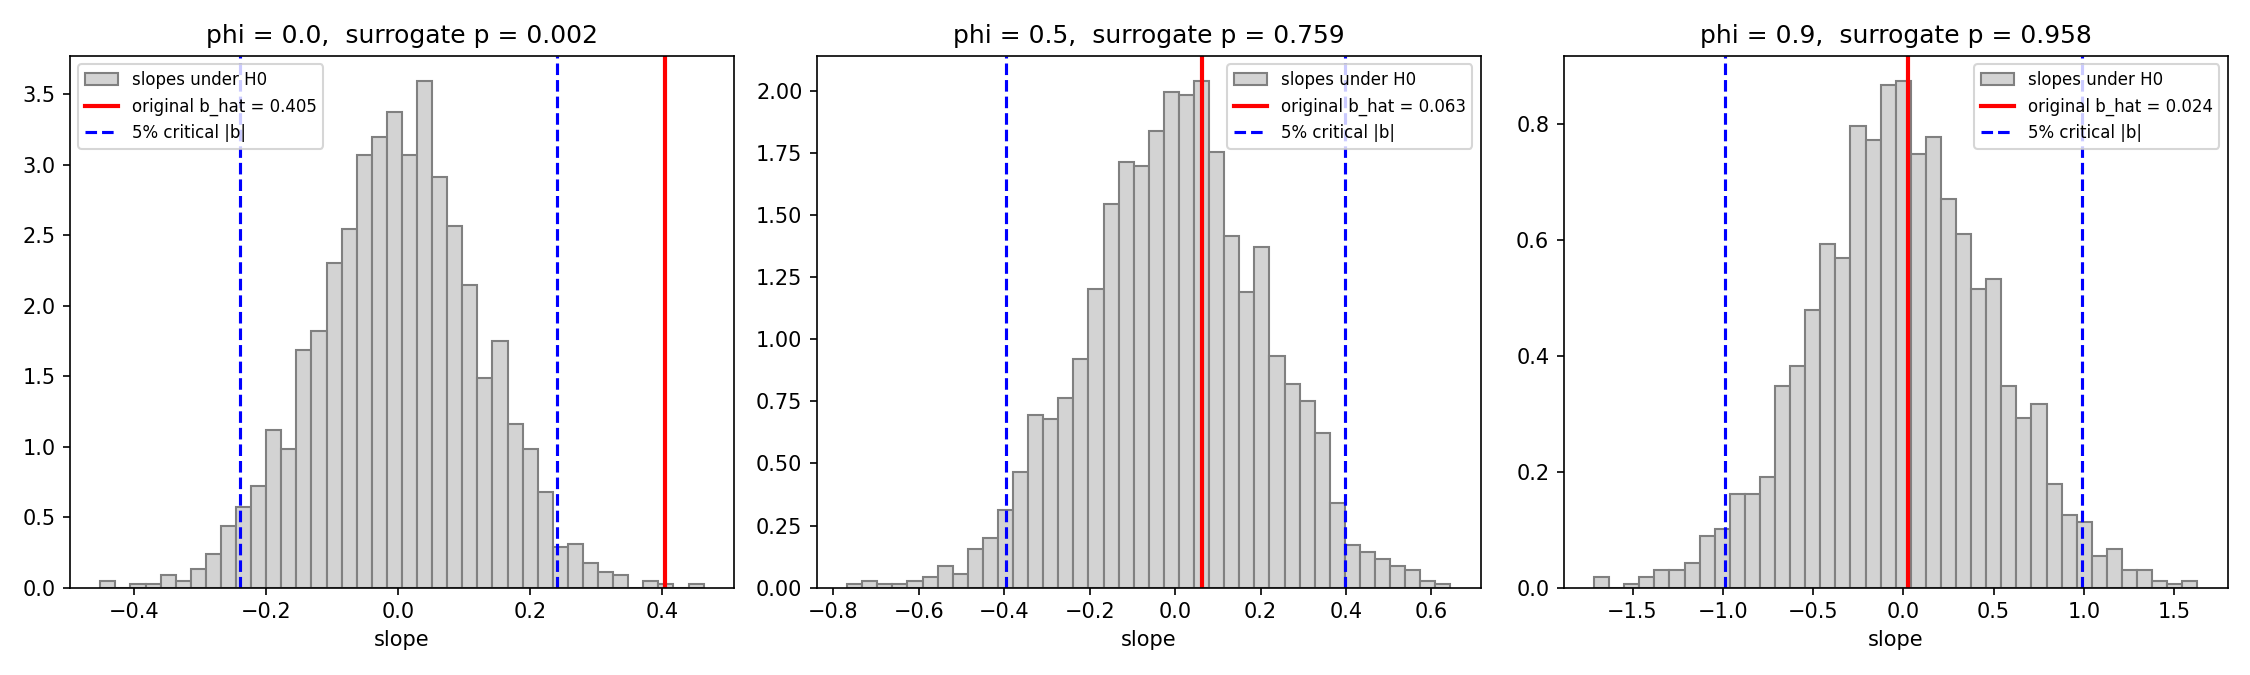
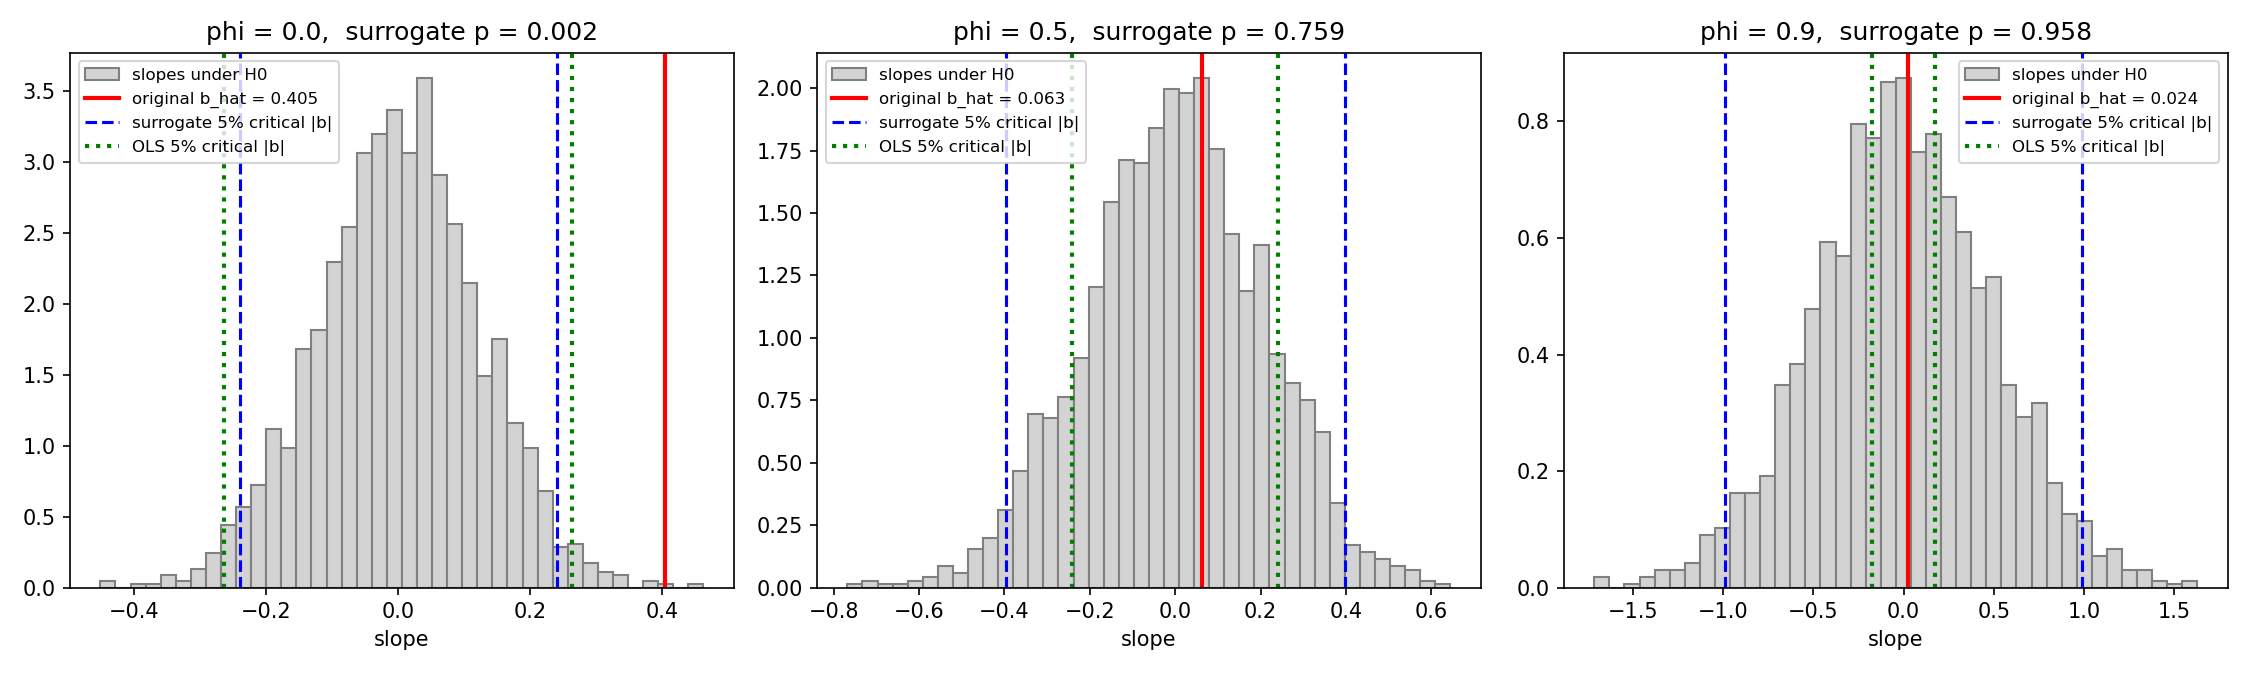
OA T2

diff --git a/Objective-Analysis/Quiz/testing/T2/solution/sol_q2.py b/Objective-Analysis/Quiz/testing/T2/solution/sol_q2.py
@@ -1,0 +1,54 @@
+# T2 小考 Q2 解答：迴歸斜率的 pairs bootstrap 信賴區間
+import numpy as np
+import matplotlib.pyplot as plt
+from scipy import stats
+
+n = 50
+B = 1000
+rng = np.random.default_rng(0)
+
+# 依照題目指定的順序產生資料
+x = rng.uniform(-1, 1, n)
+eps = rng.normal(0, 1, n)
+y = 1 + 0.5 * x + eps
+
+
+# OLS：回傳截距、斜率、斜率標準誤
+def ols(x, y):
+    xm = np.mean(x)
+    ym = np.mean(y)
+    Sxx = np.sum((x - xm) ** 2)
+    b = np.sum((x - xm) * (y - ym)) / Sxx
+    a = ym - b * xm
+    resid = y - (a + b * x)
+    s2 = np.sum(resid**2) / (len(x) - 2)
+    se_b = np.sqrt(s2 / Sxx)
+    return a, b, se_b
+
+
+# (a) OLS 與傳統 95% 信賴區間
+a_hat, b_hat, se_b = ols(x, y)
+t_crit = stats.t.ppf(0.975, n - 2)
+ci_ols = [b_hat - t_crit * se_b, b_hat + t_crit * se_b]
+print("a_hat = %.4f, b_hat = %.4f, SE = %.4f, t_crit = %.4f" % (a_hat, b_hat, se_b, t_crit))
+print("OLS 95%% CI       = [%.4f, %.4f]" % (ci_ols[0], ci_ols[1]))
+
+# (b) pairs bootstrap：同一組索引同時抽 x 與 y
+b_boot = np.zeros(B)
+for j in range(B):
+    idx = rng.integers(0, n, n)
+    a_j, b_j, se_j = ols(x[idx], y[idx])
+    b_boot[j] = b_j
+
+ci_boot = np.percentile(b_boot, [2.5, 97.5])
+print("bootstrap 斜率標準差 = %.4f" % np.std(b_boot, ddof=1))
+print("bootstrap 95%% CI = [%.4f, %.4f]" % (ci_boot[0], ci_boot[1]))
+
+# 畫圖
+plt.hist(b_boot, bins=30, color="lightgray", edgecolor="gray")
+plt.axvline(b_hat, color="r", lw=2, label="b_hat")
+plt.axvline(ci_boot[0], color="b", ls="--", label="bootstrap 95% CI")
+plt.axvline(ci_boot[1], color="b", ls="--")
+plt.xlabel("bootstrap slope")
+plt.legend()
+plt.savefig("sol_q2.png", dpi=120)

diff --git a/Objective-Analysis/Quiz/testing/T2/solution/sol_q3.py b/Objective-Analysis/Quiz/testing/T2/solution/sol_q3.py
@@ -1,0 +1,44 @@
+# T2 小考 Q3 解答：AR(1) 誤差下，OLS t 檢定的誤拒絕率
+import numpy as np
+from scipy import stats
+
+n = 100
+M = 1000
+x = np.linspace(-1, 1, n)
+t_crit = stats.t.ppf(0.975, n - 2)
+rng = np.random.default_rng(0)
+
+
+# 產生 AR(1) 誤差（穩態變異數 = 1）
+def ar1_noise(phi):
+    eps = np.zeros(n)
+    eps[0] = rng.normal(0, 1)
+    u = rng.normal(0, np.sqrt(1 - phi**2), n)
+    for t in range(1, n):
+        eps[t] = phi * eps[t - 1] + u[t]
+    return eps
+
+
+# OLS：回傳斜率與斜率標準誤
+def ols_slope(x, y):
+    xm = np.mean(x)
+    ym = np.mean(y)
+    Sxx = np.sum((x - xm) ** 2)
+    b = np.sum((x - xm) * (y - ym)) / Sxx
+    a = ym - b * xm
+    resid = y - (a + b * x)
+    s2 = np.sum(resid**2) / (n - 2)
+    return b, np.sqrt(s2 / Sxx)
+
+
+print("t_crit = %.4f" % t_crit)
+for phi in [0.0, 0.8]:
+    b_all = np.zeros(M)
+    se_all = np.zeros(M)
+    for j in range(M):
+        y = 1 + 0.0 * x + ar1_noise(phi)       # H0 為真：b = 0
+        b_all[j], se_all[j] = ols_slope(x, y)
+
+    reject = np.mean(np.abs(b_all / se_all) > t_crit)
+    print("phi = %.1f: 誤拒絕率 = %.3f, 斜率真實標準差 = %.4f, SE_OLS 平均 = %.4f, 比值 = %.2f"
+          % (phi, reject, np.std(b_all, ddof=1), np.mean(se_all), np.std(b_all, ddof=1) / np.mean(se_all)))

diff --git a/Objective-Analysis/Quiz/testing/T2/solution/sol_q1.py b/Objective-Analysis/Quiz/testing/T2/solution/sol_q1.py
@@ -1,0 +1,27 @@
+# T2 小考 Q1 解答：頻率學派 vs 貝氏學派
+from scipy import stats
+import numpy as np
+
+d_hat = 1.0      # 觀測到的效果
+sd = 0.5         # 標準誤
+
+# (a) 頻率學派：H0: d = 0 下，觀測到 >= 1.0 的機率（單尾 p 值）
+z = (d_hat - 0) / sd
+p_one = 1 - stats.norm.cdf(z)          # = Phi(-z)
+p_two = 2 * p_one
+print("z = %.2f, 單尾 p = %.4f, 雙尾 p = %.4f" % (z, p_one, p_two))
+
+# (b) 貝氏、平坦先驗：後驗 d | data ~ N(1.0, 0.5^2)
+post_flat = 1 - stats.norm.cdf((0 - d_hat) / sd)     # P(d > 0 | data)
+print("平坦先驗: P(d > 0 | data) = %.4f" % post_flat)
+
+# (c) 資訊性先驗 d ~ N(-0.5, 0.5^2)：套用卡爾曼增益公式
+mu0 = -0.5
+sd0 = 0.5
+K = sd0**2 / (sd0**2 + sd**2)
+mu_post = mu0 + K * (d_hat - mu0)
+sd_post = np.sqrt((1 - K) * sd0**2)
+post_inf = 1 - stats.norm.cdf((0 - mu_post) / sd_post)
+print("資訊性先驗: K = %.3f, mu_post = %.4f, sd_post = %.4f, P(d > 0 | data) = %.4f"
+      % (K, mu_post, sd_post, post_inf))
+print("p 值不變 = %.4f" % p_one)

diff --git a/Objective-Analysis/Quiz/testing/T2/solution/sol_q4.py b/Objective-Analysis/Quiz/testing/T2/solution/sol_q4.py
@@ -1,0 +1,22 @@
+# T2 小考 Q4（加分題）解答：用 AR(2) 擬合週期 12 的正弦波
+import numpy as np
+
+t = np.arange(1, 121)                    # t = 1..120
+z = np.sin(2 * np.pi * t / 12)
+
+# 訓練：反應變數 t = 3..100（索引 2..99）
+y = z[2:100]
+lag1 = z[1:99]
+lag2 = z[0:98]
+X = np.column_stack([np.ones(len(y)), lag1, lag2])
+beta = np.linalg.lstsq(X, y, rcond=None)[0]
+print("c = %.4f, phi1 = %.4f, phi2 = %.4f" % (beta[0], beta[1], beta[2]))
+print("理論值: phi1 = 2cos(2pi/12) = %.4f, phi2 = -1" % (2 * np.cos(2 * np.pi / 12)))
+
+# 從 t = 100 開始遞迴預報 20 步
+h = list(z[:100])
+for s in range(20):
+    h.append(beta[0] + beta[1] * h[-1] + beta[2] * h[-2])
+fc = np.array(h[100:])
+rmse = np.sqrt(np.mean((fc - z[100:120]) ** 2))
+print("20 步預報 RMSE = %.2e" % rmse)

diff --git a/Objective-Analysis/homework/hw5/hw5_q2.py b/Objective-Analysis/homework/hw5/hw5_q2.py
@@ -80,8 +80,11 @@ for k in range(3):
     ax = axes[k]
     ax.hist(b_null, bins=40, density=True, color="lightgray", edgecolor="gray", label="slopes under H0")
     ax.axvline(b_hat, color="r", lw=2, label="original b_hat = %.3f" % b_hat)
-    ax.axvline(crit_sur, color="b", ls="--", label="5% critical |b|")
+    ax.axvline(crit_sur, color="b", ls="--", label="surrogate 5% critical |b|")
     ax.axvline(-crit_sur, color="b", ls="--")
+    # 傳統 OLS t 檢定的 5% 臨界值：|b| > t_crit * SE_OLS 就判定顯著
+    ax.axvline(t_crit * se_b, color="g", ls=":", lw=2, label="OLS 5% critical |b|")
+    ax.axvline(-t_crit * se_b, color="g", ls=":", lw=2)
     ax.set_title("phi = %.1f,  surrogate p = %.3f" % (phi, p_sur))
     ax.set_xlabel("slope")
     ax.legend(fontsize=8)

diff --git a/Objective-Analysis/Quiz/testing/T2/solution/solution.md b/Objective-Analysis/Quiz/testing/T2/solution/solution.md
@@ -1,0 +1,72 @@
+# 上機小考 T2 解答
+
+程式都在本資料夾，執行方式：在 `solution` 資料夾輸入 `py sol_q1.py`（其他題同理）。
+
+> 若你抽亂數的順序和題目不同，數字會不一樣，這是正常的；重點是方法與結論。
+
+## Q1. p 值與後驗機率
+
+程式：[sol_q1.py](sol_q1.py)
+
+**(a)** 標準化 $z = (1.0 - 0)/0.5 = 2$：
+
+$$p = \Pr(\hat d \ge 1.0 \mid d = 0) = 1 - \Phi(2) = \Phi(-2) \approx 0.0228$$
+
+（雙尾為 $0.0455$）程式：`1 - stats.norm.cdf(2)` 或 `stats.norm.sf(2)`。
+
+**(b)** 平坦先驗下後驗正比於概似函數：$d \mid \hat d \sim \mathcal N(1.0,\ 0.5^2)$。
+
+$$\Pr(d > 0 \mid \hat d = 1.0) = \Pr\left(Z > \frac{0 - 1.0}{0.5}\right) = \Phi(2) \approx 0.9772$$
+
+**(c)** 和 hw3 Q2 的卡爾曼增益完全相同（先驗 = 背景、$\hat d$ = 觀測）：
+
+$$\begin{gather*}
+K &=& \frac{\sigma_0^2}{\sigma_0^2 + \sigma^2} = \frac{0.25}{0.25 + 0.25} = 0.5 \\
+\mu_{\text{post}} &=& \mu_0 + K(\hat d - \mu_0) = -0.5 + 0.5 \times 1.5 = 0.25 \\
+\sigma_{\text{post}} &=& \sqrt{(1 - K)\sigma_0^2} = \sqrt{0.125} \approx 0.3536 \\
+\Pr(d > 0 \mid \hat d) &=& \Phi\left(\frac{0.25}{0.3536}\right) = \Phi(0.707) \approx 0.7602
+\end{gather*}$$
+
+* 後驗機率從 $0.977$ 降到 $0.760$：先驗偏向負值，把後驗中心往負的方向拉。
+* p 值**不會**改變，仍是 $0.0228$：p 值 $= \Pr(\text{資料} \mid H_0)$ 只用到 $H_0$ 下資料的抽樣分布，公式裡沒有先驗。
+
+## Q2. 迴歸斜率的 Bootstrap 信賴區間
+
+程式：[sol_q2.py](sol_q2.py)
+
+| 項目 | 數值 |
+| ---- | ---- |
+| $\hat a$ | $1.0192$ |
+| $\hat b$ | $0.7617$ |
+| $\mathrm{SE}_{\mathrm{OLS}}(\hat b)$ | $0.2468$ |
+| $t_{0.975,\,48}$ | $2.0106$ |
+| OLS 95% CI | $[0.2655,\ 1.2579]$ |
+| bootstrap 斜率標準差 | $0.2217$ |
+| bootstrap 95% CI | $[0.3374,\ 1.1954]$ |
+
+**(c)** 兩個區間相近，bootstrap 稍窄（$n = 50$ 較小，bootstrap 沒有 $n-2$ 與 $t$ 分布的小樣本修正，也有有限 $B$ 的誤差）。兩個區間都**不包含 0**，所以在 5% 水準下拒絕 $H_0: b = 0$。
+
+**(d)** 不行。pairs bootstrap 保留了 $x$、$y$ 的配對關係，分布中心在 $\hat b \approx 0.76$，描述的是 $\hat b$ 的**抽樣不確定性**（用來做信賴區間）。虛無分布必須假設 $H_0$ 成立，中心在 0（用來算 p 值），建構時要強制 $b = 0$，例如打亂配對（permutation）、從 $H_0$ 模型產生資料，或把 bootstrap 分布平移 $\hat b^* - \hat b$。
+
+## Q3. AR(1) 誤差下的 t 檢定
+
+程式：[sol_q3.py](sol_q3.py)，$t_{0.975,\,98} = 1.9845$
+
+| $\phi$ | 誤拒絕率 | $\hat b$ 的真實標準差 | $\mathrm{SE}_{\mathrm{OLS}}$ 平均 | 比值 |
+| ------ | -------- | --------------------- | --------------------------------- | ---- |
+| $0$ | $0.047$ | $0.1668$ | $0.1710$ | $0.98$ |
+| $0.8$ | $0.529$ | $0.4902$ | $0.1561$ | $3.14$ |
+
+**(c)** $\phi = 0.8$ 時誤差正相關、變化緩慢，容易形成像趨勢的起伏，使 $\hat b$ 的真實變異遠大於 OLS 的假設；OLS 卻把 100 個點當作獨立資料（有效樣本數只有約 $n\frac{1-\phi}{1+\phi} \approx 11$），把標準誤低估約 3 倍，所以 $H_0$ 為真時仍有約 53% 會被誤判為顯著（應為 5%）。
+
+## Q4.（加分題）用 AR(2) 表示正弦波
+
+程式：[sol_q4.py](sol_q4.py)
+
+**(a)** 由 $\sin(\omega t + \omega) + \sin(\omega t - \omega) = 2\cos\omega \sin(\omega t)$，得
+
+$$z_t = 2\cos\omega\, z_{t-1} - z_{t-2}, \qquad \omega = \frac{2\pi}{12} \Rightarrow \phi_1 = 2\cos\frac{\pi}{6} = \sqrt3 \approx 1.7321, \quad \phi_2 = -1, \quad c = 0$$
+
+OLS 結果：$c = 0.0000$，$\phi_1 = 1.7321$，$\phi_2 = -1.0000$，與理論值完全相同。
+
+**(b)** 20 步遞迴預報 RMSE $\approx 1.5 \times 10^{-14}$（只剩浮點數捨入誤差），因為無雜訊的正弦波恰好滿足這個二階遞迴。

diff --git a/Objective-Analysis/Quiz/testing/T2/quiz.md b/Objective-Analysis/Quiz/testing/T2/quiz.md
@@ -1,0 +1,68 @@
+# Objective Analysis 上機小考 T2（模擬題）
+
+**範圍：** Week 04（頻率學派 vs 貝氏、t 分布、OLS）、Week 05（bootstrap、AR(1) 誤差、AR 模型）
+
+**時間：** 20 分鐘（Q1 約 5 分鐘、Q2 約 7 分鐘、Q3 約 8 分鐘；Q4 為加分題）
+
+**規定：**
+
+* 使用 Python（`numpy`、`scipy.stats`、`matplotlib`）。每題寫一支程式，例如 `q1.py`、`q2.py`。
+* 亂數一律使用 `rng = np.random.default_rng(0)`，並**依照題目寫的順序**抽亂數，這樣結果才能和解答對照。
+* 數值取到小數點後 4 位。文字題用 1～2 句回答即可。
+
+---
+
+## Q1. p 值與後驗機率（5 分鐘）
+
+某研究觀測到效果 $\hat d = 1.0$，標準誤 $\sigma = 0.5$。假設 $\hat d \mid d \sim \mathcal N(d,\ \sigma^2)$。
+
+* (a) 在 $H_0: d = 0$ 下，計算觀測到 $\hat d \ge 1.0$ 的機率（單尾 p 值）。請用 `scipy.stats.norm` 計算，並寫出它等於 $\Phi(\ ?\ )$。
+* (b) 使用平坦先驗，寫出 $d$ 的後驗分布，並計算 $\Pr(d > 0 \mid \hat d = 1.0)$。
+* (c) 改用先驗 $d \sim \mathcal N(-0.5,\ 0.5^2)$，計算後驗平均、後驗標準差與 $\Pr(d > 0 \mid \hat d = 1.0)$。(a) 的 p 值會改變嗎？為什麼？
+
+---
+
+## Q2. 迴歸斜率的 Bootstrap 信賴區間（7 分鐘）
+
+依序產生 $n = 50$ 筆資料：
+
+```python
+rng = np.random.default_rng(0)
+x = rng.uniform(-1, 1, n)
+eps = rng.normal(0, 1, n)
+y = 1 + 0.5 * x + eps
+```
+
+* (a) 以 OLS 估計截距 $\hat a$、斜率 $\hat b$ 與 $\mathrm{SE}_{\mathrm{OLS}}(\hat b)$，並計算傳統 95% 信賴區間 $\hat b \pm t_{0.975,\,n-2}\,\mathrm{SE}_{\mathrm{OLS}}(\hat b)$。
+* (b) 接著（用同一個 `rng`）進行 $B = 1000$ 次 pairs bootstrap：每次用 `idx = rng.integers(0, n, n)` 抽索引，重新擬合並保存斜率。畫出 bootstrap 斜率的直方圖，並計算 95% 百分位數信賴區間。
+* (c) 比較兩個區間。在 5% 水準下能否拒絕 $H_0: b = 0$？
+* (d) 這個 bootstrap 斜率分布可以直接當成 $H_0: b = 0$ 的虛無分布嗎？為什麼？
+
+---
+
+## Q3. AR(1) 誤差下的 t 檢定（8 分鐘）
+
+令 $n = 100$，`x = np.linspace(-1, 1, n)`。誤差為 AR(1)：
+
+$$\epsilon_1 \sim \mathcal N(0, 1), \qquad \epsilon_t = \phi\,\epsilon_{t-1} + u_t, \quad u_t \sim \mathcal N(0,\ 1 - \phi^2)$$
+
+產生一組誤差時，請依序抽 `eps[0] = rng.normal(0, 1)`，再一次抽出 `u = rng.normal(0, np.sqrt(1 - phi**2), n)`，然後用迴圈算 `eps[t] = phi * eps[t-1] + u[t]`（$t = 1, \dots, n-1$）。
+
+* (a) 對 $\phi = 0$ 與 $\phi = 0.8$（先做 $\phi = 0$，同一個 `rng` 接著做 $\phi = 0.8$），各在 $H_0$ 下產生 $M = 1000$ 組資料 $y = 1 + \epsilon$（真實斜率為 0），每組都做 OLS 與傳統 t 檢定 $|T| = |\hat b / \mathrm{SE}_{\mathrm{OLS}}| > t_{0.975,\,n-2}$。
+* (b) 回報每個 $\phi$ 的：
+  * 誤拒絕率（$|T|$ 超過臨界值的比例）
+  * $M$ 個 $\hat b$ 的標準差，以及 $\mathrm{SE}_{\mathrm{OLS}}$ 的平均，並算出兩者的比值
+* (c) 用 1～2 句話解釋 $\phi = 0.8$ 時結果為什麼會這樣。
+
+---
+
+## Q4.（加分題）用 AR(2) 表示正弦波
+
+令 $z_t = \sin(2\pi t / 12)$，$t = 1, \dots, 120$（無雜訊）。
+
+* (a) 用 $t = 3, \dots, 100$ 當反應變數，以 OLS 擬合 $z_t = c + \phi_1 z_{t-1} + \phi_2 z_{t-2}$，回報係數，並和理論值比較（理論值要寫出推導依據）。
+* (b) 從 $t = 100$ 開始遞迴預報 20 步，計算 $t = 101, \dots, 120$ 的 RMSE。
+
+---
+
+解答在 [solution/solution.md](solution/solution.md)，**寫完再看**。

diff --git a/Objective-Analysis/homework/hw5/hw5.md b/Objective-Analysis/homework/hw5/hw5.md
@@ -223,7 +223,9 @@ $H_0$ 下的斜率分布（替代資料）與 OLS 標準誤的比較：
 
 ![surrogate slope distributions](q2_surrogate.png)
 
-（灰色：$H_0$ 下 2000 筆替代資料的斜率；紅線：原始資料的 OLS 斜率；藍虛線：替代資料的 5% 雙尾臨界值）
+（灰色：$H_0$ 下 2000 筆替代資料的斜率；紅線：原始資料的 OLS 斜率；藍虛線：替代資料的 5% 雙尾臨界值（真正的臨界值）；綠點線：傳統 OLS t 檢定的臨界值 $\pm t_{0.975,198}\,\mathrm{SE}_{\mathrm{OLS}}$）
+
+綠線在藍線內側越多，代表 OLS 越容易把雜訊誤判為顯著：$\phi = 0$ 時兩者幾乎重合；$\phi = 0.9$ 時綠線 $\pm 0.175$ 遠在藍線 $\pm 0.988$ 內側，灰色長條有一大半落在綠線外，對應 $65.6\%$ 的誤拒絕率。
 
 **討論：**
 
